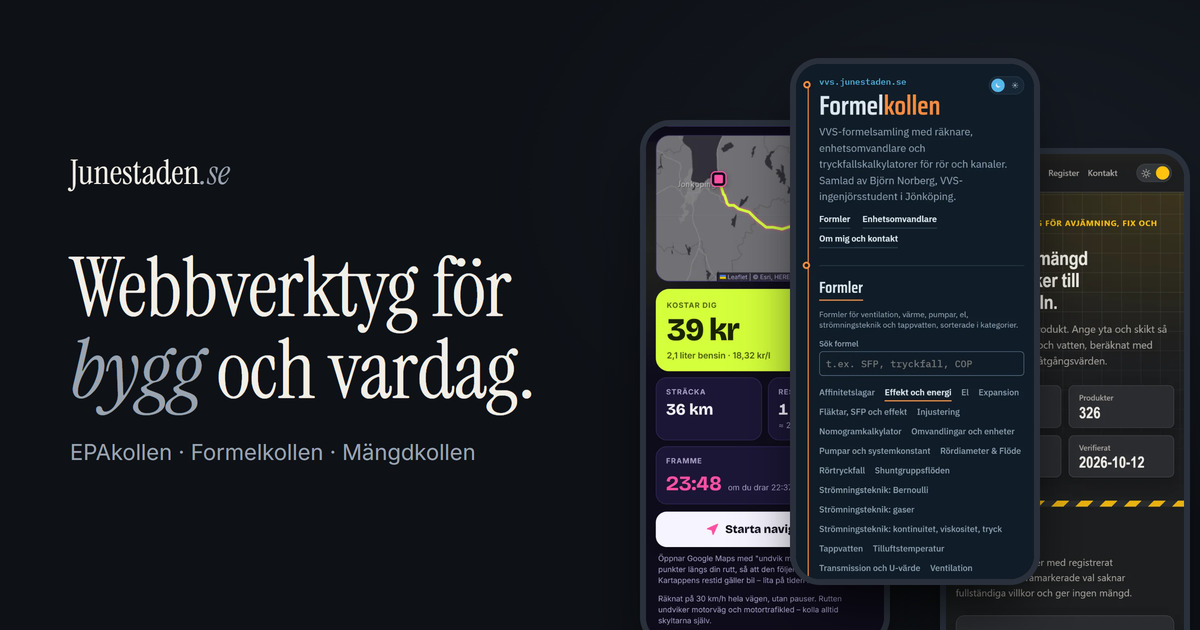
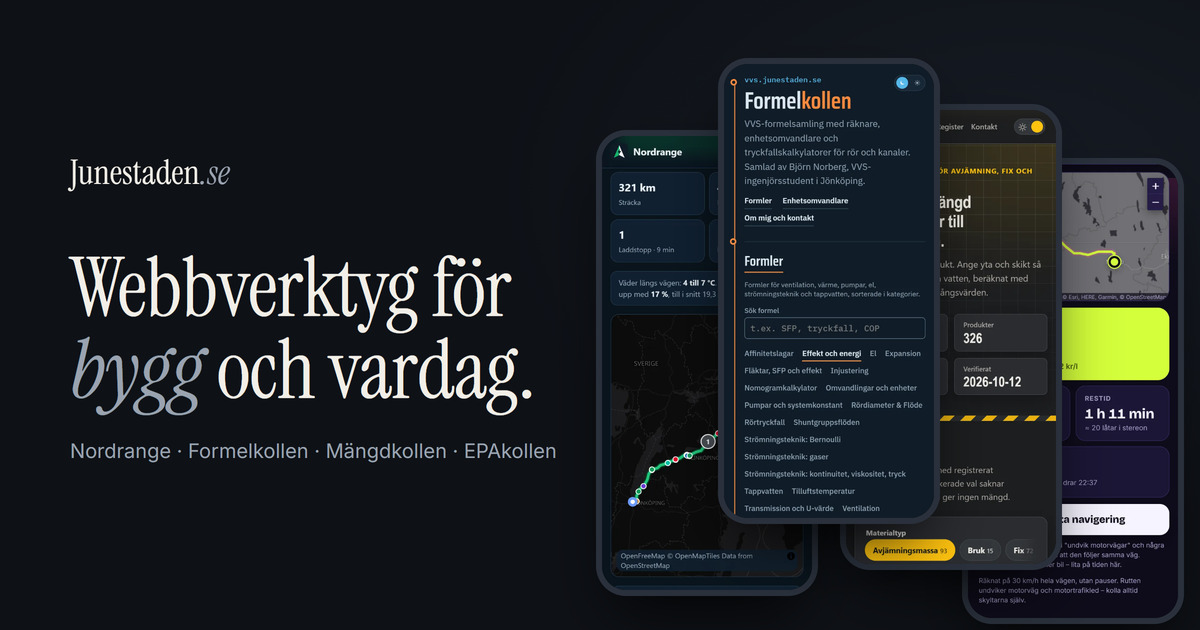
Lägg till Nordrange, ny ordning (Nordrange, Formelkollen, Mängdkollen, EPAkollen), 2x2-rutnät och ny delningsbild

Changed region(s): [[0.4933, 0.0905, 1.0, 1.0], [0.0617, 0.6937, 0.4625, 0.754], [0.7092, 0.9952, 0.74, 1.0]]

diff --git a/public/index.html b/public/index.html
@@ -4,7 +4,7 @@
 <meta charset="utf-8">
 <meta name="viewport" content="width=device-width, initial-scale=1">
 <title>Junestaden – webbverktyg för bygg och vardag</title>
-<meta name="description" content="Webbverktyg byggda av Björn Norberg i Jönköping: EPAkollen, Formelkollen och Mängdkollen. Gratis, utan inloggning och gjorda för mobilen.">
+<meta name="description" content="Webbverktyg byggda av Björn Norberg i Jönköping: Nordrange, Formelkollen, Mängdkollen och EPAkollen. Gratis, utan inloggning och gjorda för mobilen.">
 <meta name="author" content="Björn Norberg">
 <meta name="theme-color" content="#0e1116">
 <link rel="canonical" href="https://junestaden.se/">
@@ -19,8 +19,8 @@
 <meta property="og:site_name" content="Junestaden">
 <meta property="og:url" content="https://junestaden.se/">
 <meta property="og:title" content="Junestaden – webbverktyg för bygg och vardag">
-<meta property="og:description" content="EPAkollen, Formelkollen och Mängdkollen – gratis webbverktyg för EPA-resor, VVS-formler och materialåtgång. Utan inloggning, i mobilen och på datorn.">
-<meta property="og:image" content="https://junestaden.se/img/og.jpg?v=4">
+<meta property="og:description" content="Nordrange, Formelkollen, Mängdkollen och EPAkollen – gratis webbverktyg för elbilsresor, VVS-formler, materialåtgång och EPA-resor. Utan inloggning, i mobilen och på datorn.">
+<meta property="og:image" content="https://junestaden.se/img/og.jpg?v=5">
 <meta property="og:image:width" content="1200">
 <meta property="og:image:height" content="630">
 <meta name="twitter:card" content="summary_large_image">
@@ -34,7 +34,7 @@
       "@id": "https://junestaden.se/#website",
       "url": "https://junestaden.se/",
       "name": "Junestaden",
-      "description": "Webbverktyg för bygg och vardag: EPAkollen, Formelkollen och Mängdkollen.",
+      "description": "Webbverktyg för bygg och vardag: Nordrange, Formelkollen, Mängdkollen och EPAkollen.",
       "inLanguage": "sv-SE",
       "author": { "@id": "https://junestaden.se/#person" }
     },
@@ -59,9 +59,9 @@
         {
           "@type": "ListItem", "position": 1,
           "item": {
-            "@type": "WebApplication", "name": "EPAkollen", "url": "https://epa.junestaden.se/",
+            "@type": "WebApplication", "name": "Nordrange", "url": "https://nordrange.se/",
             "applicationCategory": "TravelApplication", "operatingSystem": "Alla",
-            "description": "Räkna ut restid och bränslekostnad för EPA- och A-traktor.",
+            "description": "Ruttplanerare för elbil som visar var du ska ladda, hos 20 laddnätverk i Sverige, Norge, Danmark och Finland.",
             "offers": { "@type": "Offer", "price": "0", "priceCurrency": "SEK" },
             "author": { "@id": "https://junestaden.se/#person" }
           }
@@ -82,6 +82,16 @@
             "@type": "WebApplication", "name": "Mängdkollen", "url": "https://bygg.junestaden.se/",
             "applicationCategory": "UtilitiesApplication", "operatingSystem": "Alla",
             "description": "Räkna åtgång av avjämningsmassa, fix och fogbruk utifrån tillverkarnas värden.",
+            "offers": { "@type": "Offer", "price": "0", "priceCurrency": "SEK" },
+            "author": { "@id": "https://junestaden.se/#person" }
+          }
+        },
+        {
+          "@type": "ListItem", "position": 4,
+          "item": {
+            "@type": "WebApplication", "name": "EPAkollen", "url": "https://epa.junestaden.se/",
+            "applicationCategory": "TravelApplication", "operatingSystem": "Alla",
+            "description": "Räkna ut restid och bränslekostnad för EPA- och A-traktor.",
             "offers": { "@type": "Offer", "price": "0", "priceCurrency": "SEK" },
             "author": { "@id": "https://junestaden.se/#person" }
           }
@@ -201,8 +211,8 @@ h1 em { color: var(--muted); }
 /* Projektkort */
 .projects {
   display: grid;
-  grid-template-columns: repeat(3, 1fr);
-  gap: clamp(20px, 2.6vw, 32px);
+  grid-template-columns: repeat(2, 1fr);
+  gap: clamp(28px, 3.2vw, 44px);
   padding-bottom: clamp(64px, 9vw, 112px);
 }
 .card {
@@ -216,6 +226,7 @@ h1 em { color: var(--muted); }
   perspective: 900px;
   transition: opacity .4s;
 }
+.card[data-site="nordrange"] { --accent: #1fc77a; }
 .card[data-site="epa"]   { --accent: #d4ff3a; }
 .card[data-site="vvs"]   { --accent: #ff8a3d; }
 .card[data-site="mangd"] { --accent: #ffc21a; }
@@ -223,7 +234,7 @@ h1 em { color: var(--muted); }
 /* Scen med telefon som sticker upp nerifrån */
 .shot {
   position: relative;
-  aspect-ratio: 4 / 3;
+  aspect-ratio: 16 / 10;
   border-radius: 18px;
   overflow: hidden;
   background:
@@ -239,7 +250,7 @@ h1 em { color: var(--muted); }
   position: absolute;
   left: 50%;
   top: 11%;
-  width: 46%;
+  width: 40%;
   border: 5px solid var(--frame);
   border-radius: 24px;
   overflow: hidden;
@@ -364,16 +375,11 @@ footer .wrap {
 
 /* Responsivt */
 @media (max-width: 960px) {
-  .projects { grid-template-columns: repeat(2, 1fr); }
-  .card:last-child:nth-child(odd) { grid-column: 1 / -1; }
-  .card:last-child:nth-child(odd) .shot { aspect-ratio: 2 / 1; }
-  .card:last-child:nth-child(odd) .phone { width: 27%; }
+  .shot { aspect-ratio: 4 / 3; }
+  .phone { width: 46%; }
 }
 @media (max-width: 640px) {
   .projects { grid-template-columns: 1fr; gap: 40px; }
-  .card:last-child:nth-child(odd) .shot { aspect-ratio: 4 / 3; }
-  .card:last-child:nth-child(odd) .phone { width: 46%; }
-  .shot { aspect-ratio: 4 / 3; }
   h2 { font-size: 28px; }
   .meta { padding-top: 18px; }
 }
@@ -387,6 +393,7 @@ footer .wrap {
   .anim .card.reveal:nth-child(1) { animation-delay: .22s; }
   .anim .card.reveal:nth-child(2) { animation-delay: .32s; }
   .anim .card.reveal:nth-child(3) { animation-delay: .42s; }
+  .anim .card.reveal:nth-child(4) { animation-delay: .52s; }
   @keyframes rise { from { opacity: 0; transform: translateY(18px); } }
 }
 @media (prefers-reduced-motion: reduce) {
@@ -412,17 +419,17 @@ footer .wrap {
   </section>
 
   <section class="projects" aria-label="Projekt">
-    <a class="card reveal" data-site="epa" href="https://epa.junestaden.se">
+    <a class="card reveal" data-site="nordrange" href="https://nordrange.se">
       <div class="shot">
-        <div class="phone"><img src="img/epa.webp" alt="EPAkollen i mobilen med en uträknad rutt: 36 km, 1 h 11 min, 39 kr" width="600" height="1298" decoding="async"></div>
+        <div class="phone"><img src="img/nordrange.webp" alt="Nordrange i mobilen: rutt Jönköping–Stockholm, 321 km med ett laddstopp" width="600" height="1298" decoding="async"></div>
       </div>
       <div class="meta">
         <div class="meta-top">
-          <h2><span class="dot"></span>EPAkollen</h2>
+          <h2><span class="dot"></span>Nordrange</h2>
           <span class="arrow" aria-hidden="true"><svg viewBox="0 0 16 16" fill="none" stroke="currentColor" stroke-width="1.6" stroke-linecap="round" stroke-linejoin="round"><path d="M3 8h10M9 4l4 4-4 4"/></svg></span>
         </div>
-        <p class="desc">Räkna ut restid och bränslekostnad för din EPA-traktor. Rutten undviker motorvägar, räknas på 30&nbsp;km/h och använder dagens bensinpris.</p>
-        <span class="url">epa.junestaden.se</span>
+        <p class="desc">Ruttplanerare för elbil. Ange bil, batterinivå och resmål, så visar Nordrange var du ska ladda, hos 20 laddnätverk i Sverige, Norge, Danmark och Finland.</p>
+        <span class="url">nordrange.se</span>
       </div>
     </a>
 
@@ -451,6 +458,20 @@ footer .wrap {
         </div>
         <p class="desc">Räkna rätt mängd avjämning, fix och fogbruk innan du åker till bygghandeln. Kilo, säckar och vatten utifrån tillverkarens egna åtgångsvärden.</p>
         <span class="url">bygg.junestaden.se</span>
+      </div>
+    </a>
+
+    <a class="card reveal" data-site="epa" href="https://epa.junestaden.se">
+      <div class="shot">
+        <div class="phone"><img src="img/epa.webp" alt="EPAkollen i mobilen med en uträknad rutt: 36 km, 1 h 11 min, 39 kr" width="600" height="1298" decoding="async"></div>
+      </div>
+      <div class="meta">
+        <div class="meta-top">
+          <h2><span class="dot"></span>EPAkollen</h2>
+          <span class="arrow" aria-hidden="true"><svg viewBox="0 0 16 16" fill="none" stroke="currentColor" stroke-width="1.6" stroke-linecap="round" stroke-linejoin="round"><path d="M3 8h10M9 4l4 4-4 4"/></svg></span>
+        </div>
+        <p class="desc">Räkna ut restid och bränslekostnad för din EPA-traktor. Rutten undviker motorvägar, räknas på 30&nbsp;km/h och använder dagens bensinpris.</p>
+        <span class="url">epa.junestaden.se</span>
       </div>
     </a>
   </section>

diff --git a/design/og.html b/design/og.html
@@ -13,20 +13,22 @@ body { margin: 0; width: 1200px; height: 630px; overflow: hidden; position: rela
 .brand em { color: #9aa3b0; }
 h1 { margin: 52px 0 0; font: 400 82px/1 "Instrument Serif", serif; letter-spacing: -.5px; }
 h1 em { color: #9aa3b0; }
-p { margin: 28px 0 0; font: 400 22px Inter, sans-serif; color: #9aa3b0; }
-.phone { position: absolute; width: 238px; border: 6px solid #2a313c; border-radius: 30px; overflow: hidden; background: #000;
+p { margin: 28px 0 0; font: 400 20px Inter, sans-serif; color: #9aa3b0; }
+.phone { position: absolute; width: 210px; border: 6px solid #2a313c; border-radius: 30px; overflow: hidden; background: #000;
   box-shadow: 0 30px 60px -18px rgba(0,0,0,.85); }
 .phone img { display: block; width: 100%; height: auto; }
-.p1 { left: 640px; top: 120px; }
-.p2 { left: 790px; top: 58px; z-index: 2; }
-.p3 { left: 940px; top: 148px; }
+.p1 { left: 596px; top: 130px; z-index: 1; }
+.p2 { left: 718px; top: 58px; z-index: 4; }
+.p3 { left: 840px; top: 104px; z-index: 3; }
+.p4 { left: 962px; top: 158px; z-index: 2; }
 </style></head><body>
 <div class="text">
   <div class="brand">Junestaden<em>.se</em></div>
   <h1>Webbverktyg för<br><em>bygg</em> och vardag.</h1>
-  <p>EPAkollen · Formelkollen · Mängdkollen</p>
+  <p>Nordrange · Formelkollen · Mängdkollen · EPAkollen</p>
 </div>
-<div class="phone p1"><img src="../public/img/epa.webp" alt=""></div>
+<div class="phone p1"><img src="../public/img/nordrange.webp" alt=""></div>
 <div class="phone p2"><img src="../public/img/vvs.webp" alt=""></div>
 <div class="phone p3"><img src="../public/img/mangdkollen.webp" alt=""></div>
+<div class="phone p4"><img src="../public/img/epa.webp" alt=""></div>
 </body></html>

diff --git a/README.md b/README.md
@@ -1,7 +1,7 @@
 # Junestaden
 
 Startsidan för [junestaden.se](https://junestaden.se) som länkar till mina webbverktyg:
-EPAkollen, Formelkollen och Mängdkollen.
+Nordrange, Formelkollen, Mängdkollen och EPAkollen.
 
 ## Struktur
 - `public/` – det som publiceras: `index.html`, ikoner, bilder, `robots.txt` och `sitemap.xml`
